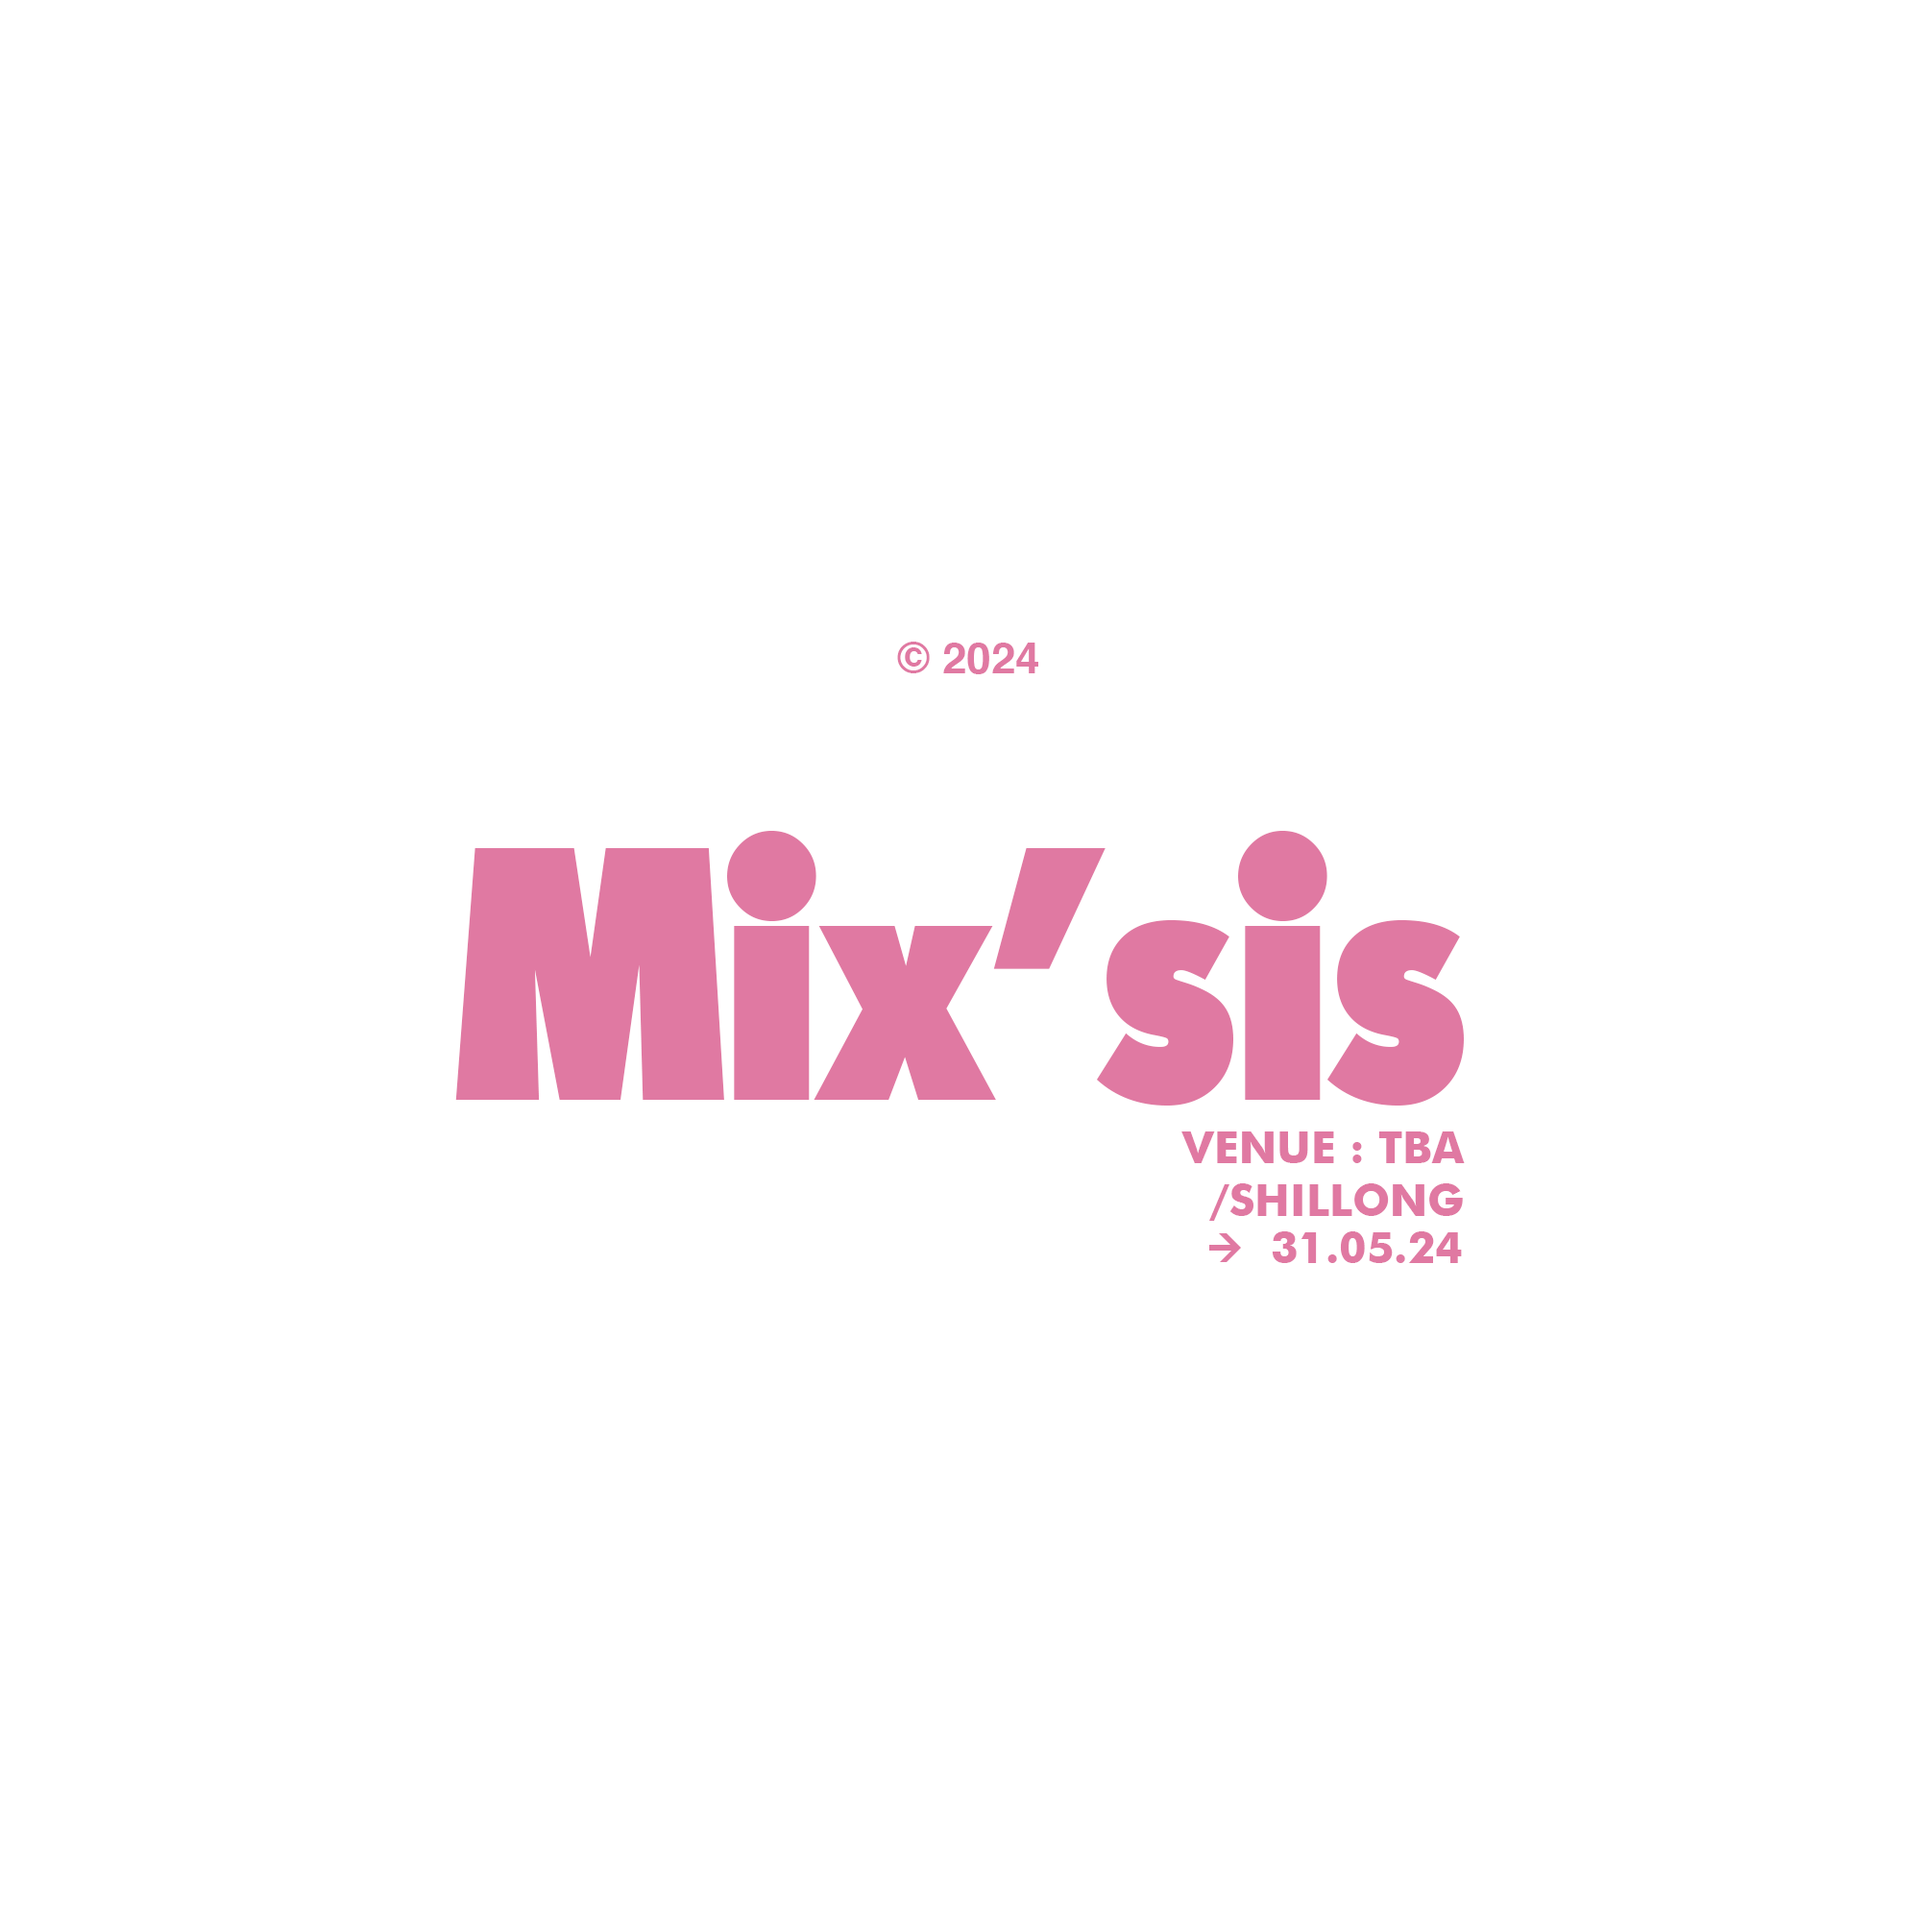
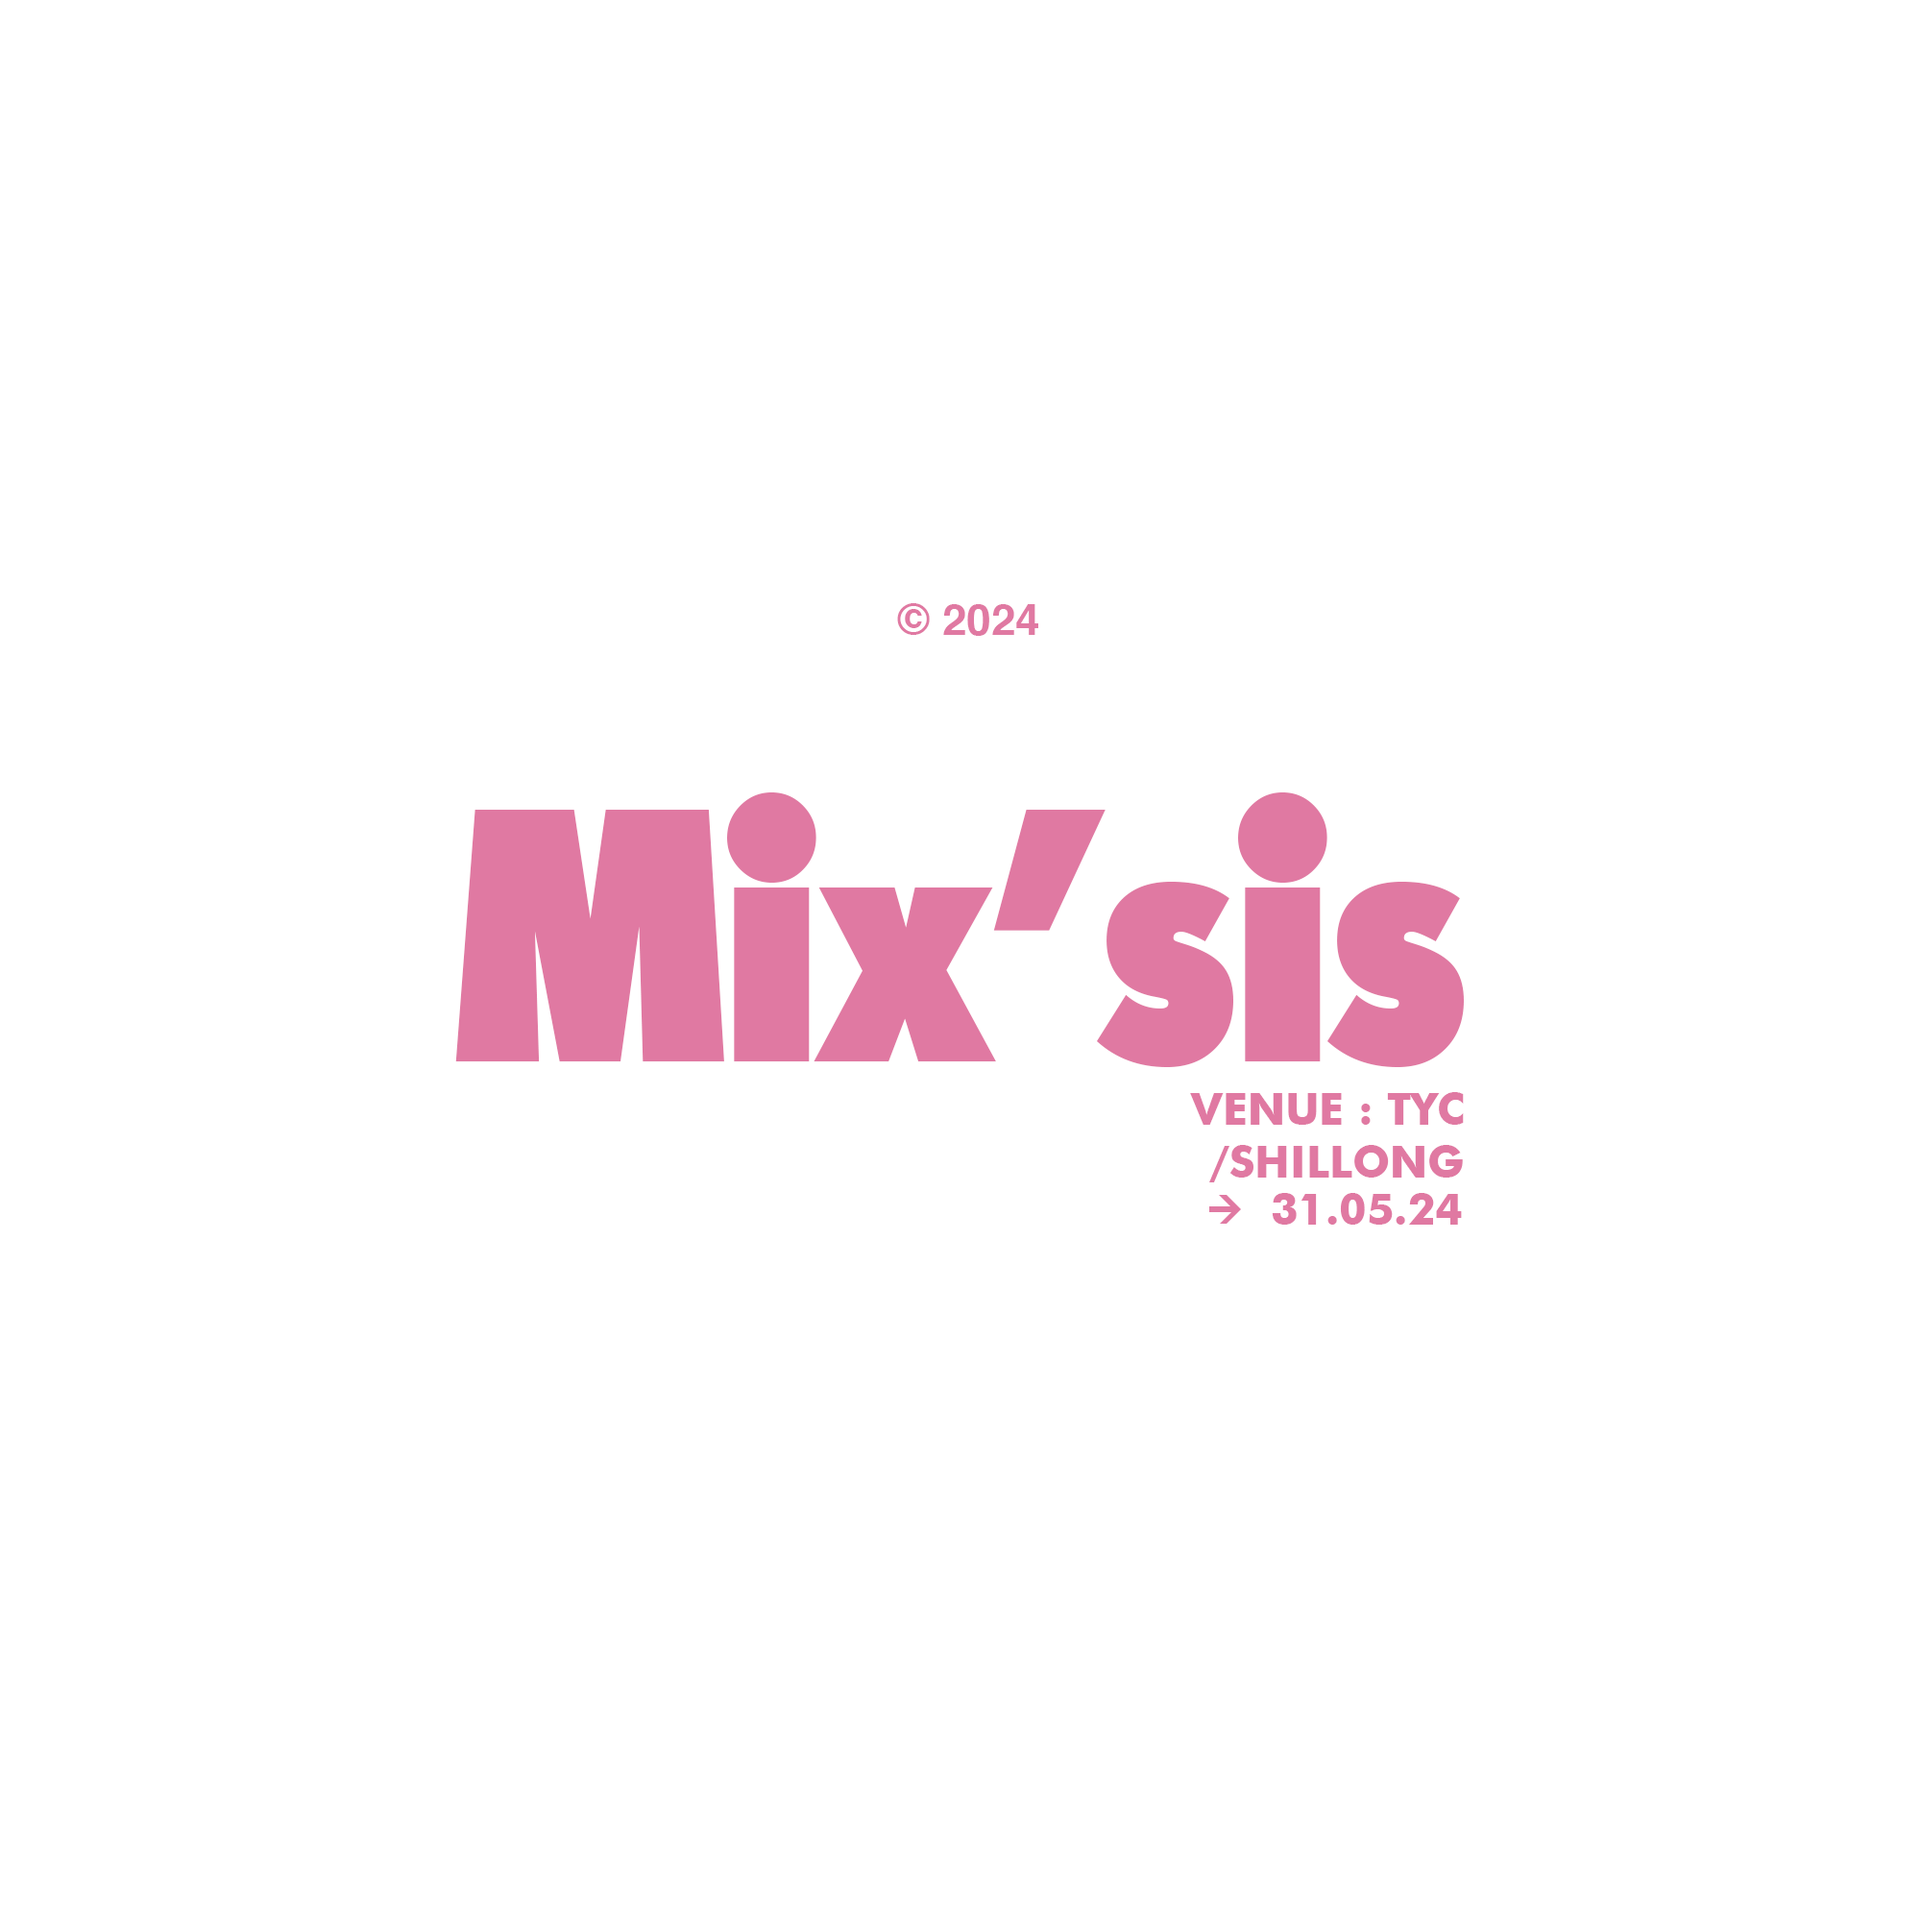
Update /mixsis

Changed region(s): [[0.217, 0.403, 0.775, 0.682], [0.465, 0.31, 0.558, 0.372]]

diff --git a/src/app/Components/EventDetailsMixSis.js b/src/app/Components/EventDetailsMixSis.js
@@ -4,7 +4,7 @@ import React, { useState, useEffect } from 'react';
 import "./EventDetails.css";
 
 import flyer from "../../../public/mix-sis.png"
-
+import location from "../../../public/location-dot-solid.svg"
 
 import Image from "next/image";
 
@@ -67,7 +67,16 @@ const EventDetails = () => {
 
                     <div className="p-0 leading-8">
                         <h2 className="lg:ml-0 ml-3 lg:text-right text-left text-5xl font-bold mb-2">Mix&#39;sis</h2>
-                        <p className="lg:ml-0 ml-3 lg:text-right text-left font-light">Venue: tba</p>
+                        <div className='lg:ml-0 ml-3 flex flex-row lg:justify-end gap-2'>
+                            <Image
+                                src={location}
+                                priority
+                                width={10}
+                                height="auto"
+                                alt="Event Flyer"
+                            />
+                            <p className="lg:ml-0 lg:text-right text-left font-light">The Yeastern Civilization</p>
+                        </div>
                         {<h3 className="lg:ml-0 ml-3 lg:text-right text-left text-xl text-[#00FF38]">Fri, May 31, 9:00 PM <span className="font-light text-sm">{isMobile ? <br /> : ""}GMT +5:30</span></h3>}
                         <div className="lg:ml-0 ml-3 flex lg:gap-16 gap-10 lg:justify-end">
                             {/* <p>Tag</p> */}
@@ -77,8 +86,8 @@ const EventDetails = () => {
 
                     <div className="scroll-about-text">
                         <h3 className="lg:text-right ml-2 text-xl font-bold leading-10">About</h3>
-                        <div className="overflow-scroll about-text p-4 rounded-2xl">
-                            <p className="lg:text-right leading-7">&#34;The Mix&#39;sis&#34; is not just an event; it&#39;s a celebration of diversity, talent, and inclusivity in the realm of music. With an all-female DJ lineup, it&#39;s a platform where women can shine, showcasing their unique styles and favorite genres, from pulsating techno beats to soulful house melodies. Each DJ brings her own flair, creating an electrifying atmosphere that captivates the audience and keeps them moving all night long.</p>
+                        <div className="overflow-scroll about-text p-4 rounded-2xl h-full" style={{"height": "21rem !important"}}>
+                            <p className="lg:text-right leading-7">&#34;The Mix&#39;sis&#34; is not just an event; it&#39;s a celebration of diversity, talent, and inclusivity in the realm of music. <br /><br />With an all-female DJ lineup, it&#39;s a platform where women can shine, showcasing their unique styles and favorite genres, from pulsating techno beats to soulful house melodies.<br /><br />Each DJ brings her own flair, creating an electrifying atmosphere that captivates the audience and keeps them moving all night long.</p>
                             {/* <br />
                             <p className="lg:text-right leading-7">But &#34;The Mix&#39;sis&#34; is more than just music; it&#39;s a sanctuary, a safe space where everyone can freely express themselves without fear of judgment. It&#39;s a community where differences are celebrated, and individuality is embraced. Here, people can be their true selves, surrounded by the empowering sounds of talented female DJs who inspire and uplift with every track they drop.</p>
                             <br />
